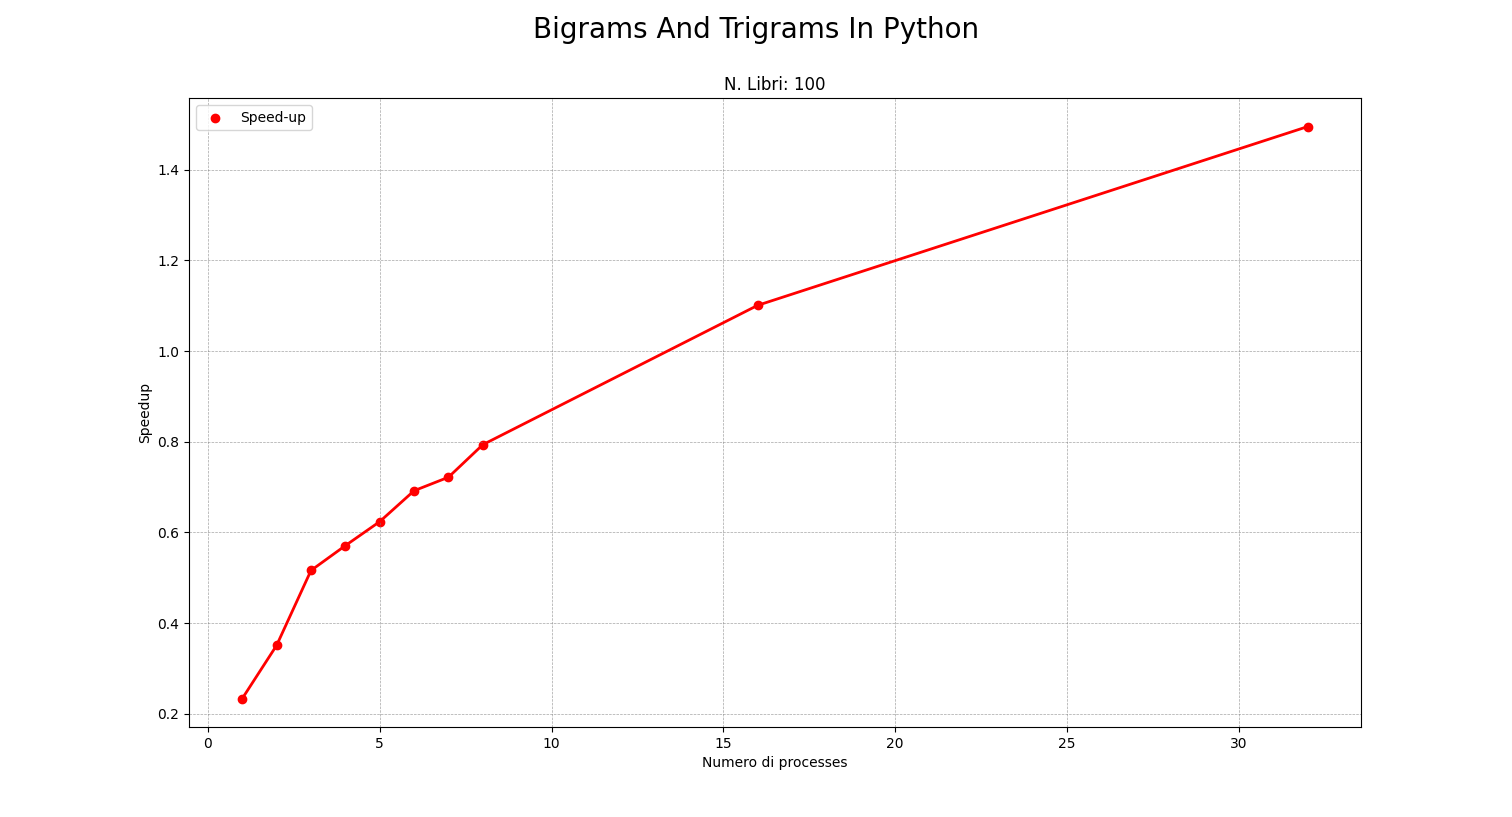
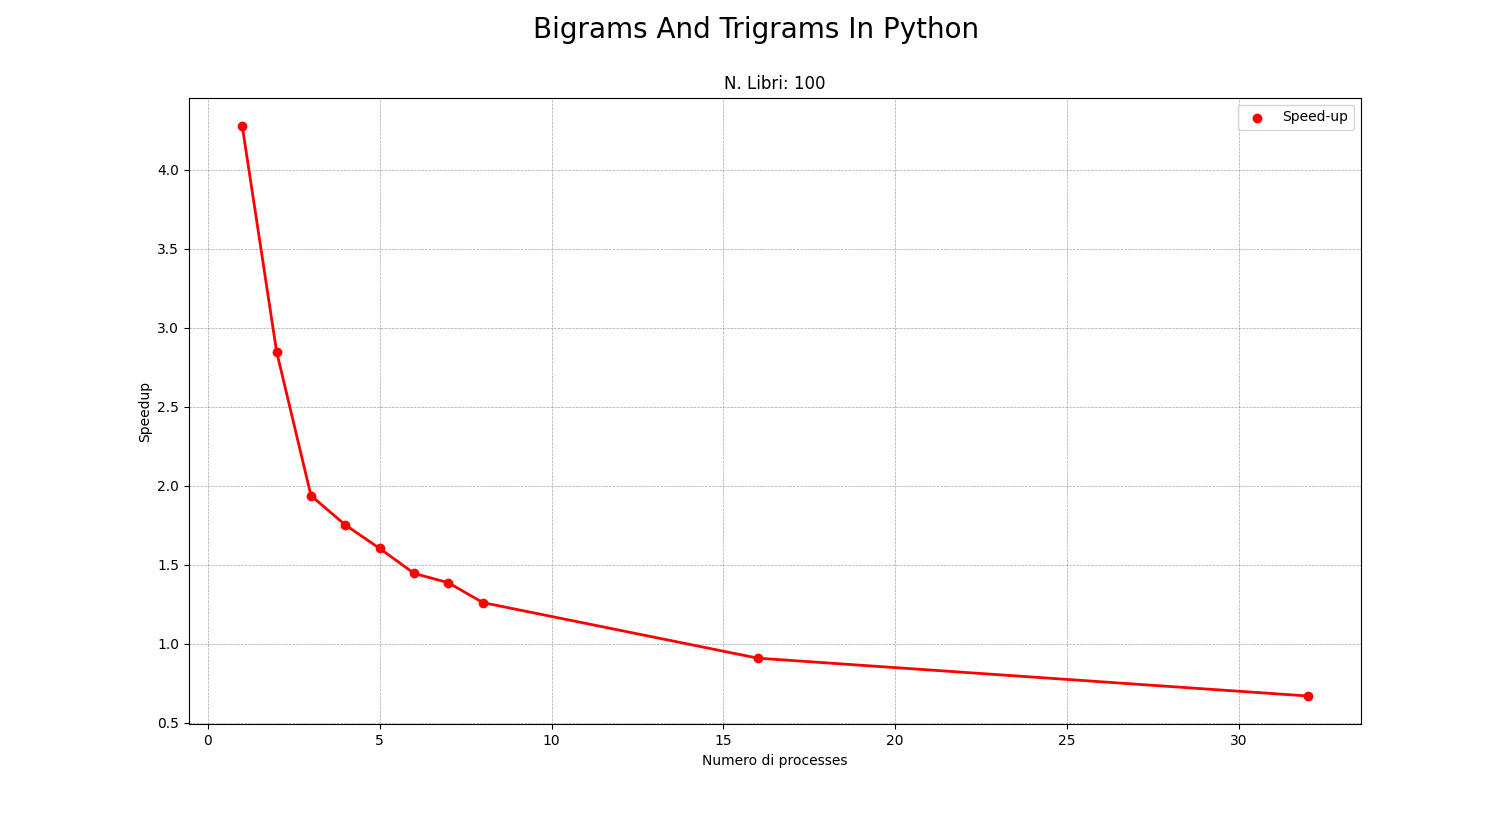
fix

diff --git a/FinalTermExam/Results/results.py b/FinalTermExam/Results/results.py
@@ -110,7 +110,7 @@ def speed_up_parallelo():
 
     speed_up = []
     for i in range(len(num_threads)):
-        risultato = tempo_esecuzione_parallelo_asyncio[i] / tempo_esecuzione_parallelo_multiprocessing[i]
+        risultato = tempo_esecuzione_parallelo_multiprocessing[i] / tempo_esecuzione_parallelo_asyncio[i]
         speed_up.append(risultato)
 
     plt.scatter(num_threads, speed_up, color='red', marker='o', label='Speed-up')
